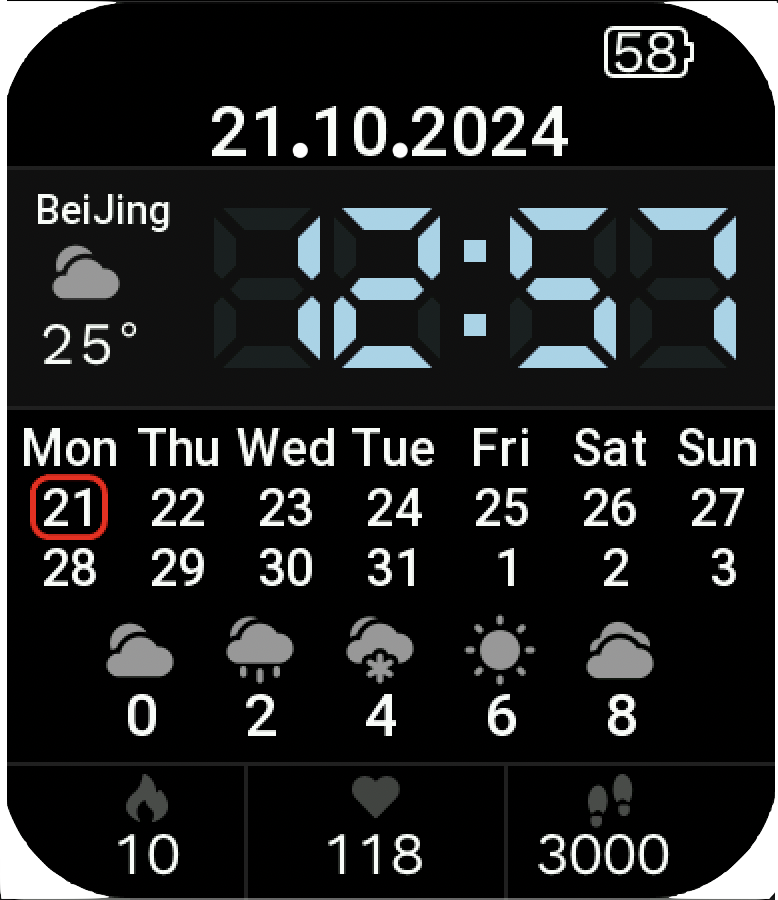
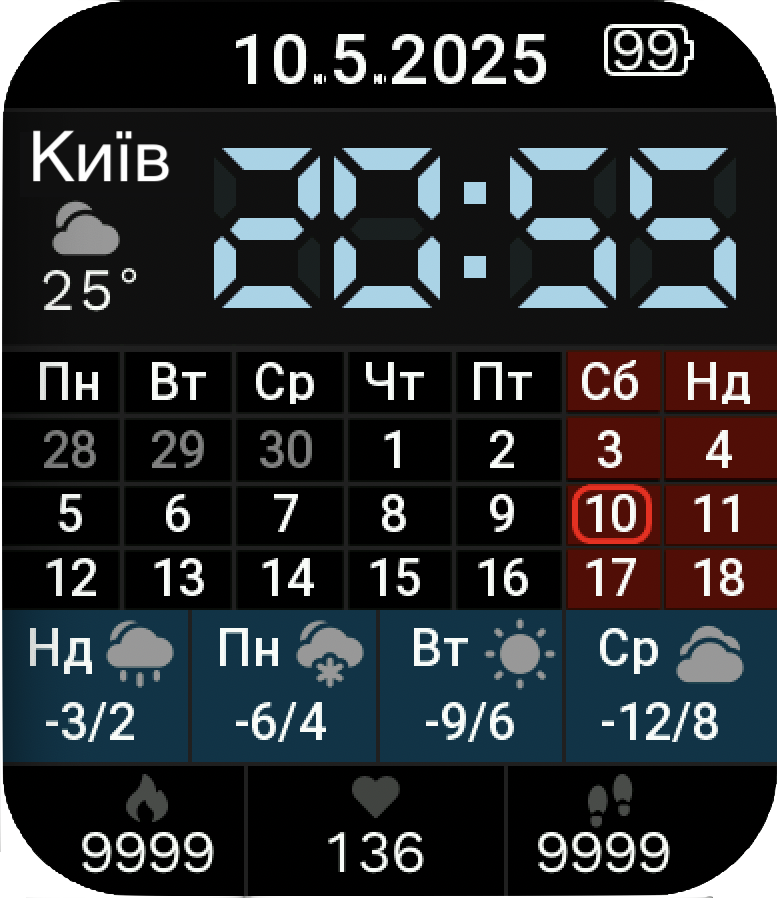
better styles & positioning

diff --git a/watchface/calendar.js b/watchface/calendar.js
@@ -1,6 +1,7 @@
 import {getLangTable} from "./i18n";
 
 const colorWhite = 0xffffff;
+const colorGray = 0x808080;
 const weekDays = getLangTable().weekNamesConfig
 
 let calendarWidget = []
@@ -32,9 +33,6 @@ export function CalendarWidget() {
     // calendar week names
     let shift = 10;
     weekDays.forEach((day, index) => {
-        // if (index === 5 || index === 6) {
-        //     weekColor = colorRed
-        // }
         hmUI.createWidget(hmUI.widget.TEXT, {
             x: shift,
             y: 178,
@@ -62,41 +60,35 @@ export function CalendarWidget() {
         align_h: hmUI.align.CENTER_H,
         align_v: hmUI.align.CENTER_V,
         text_style: hmUI.text_style.NONE,
-        text: currentDay + "." + currentMonth + "." + currentYear
+        text: currentDay + "." + String(currentMonth).padStart(2, '0') + "." + currentYear
     }));
 
-    let dates = getNextTwoWeeksDates(currentDay, currentMonth, currentYear)
+    let dates = getNextThreeWeeksDates(currentDay, currentMonth, currentYear)
     let shiftX = 10; // Initialize the shift for x position
     let shiftY = 180; // Initialize y position
-    let weekColor = colorWhite
-    dates.forEach((day, index) => {
+    dates.forEach((dayProp, index) => {
         if (index % 7 === 0) {
             shiftY += 32; // Move down by 30 pixels for every 7th item
             shiftX = 10;
         }
 
-        // if (index % 7 === 5 || index % 7 === 6) { // 5 is Saturday, 6 is Sunday
-        //     weekColor = colorRed
-        // } else {
-        //     weekColor = colorWhite
-        // }
         calendarWidget.push(hmUI.createWidget(hmUI.widget.TEXT, {
             x: shiftX, // Current x position
             y: shiftY, // Current y position
             w: 50, // Width of the text widget
             h: 25, // Height of the text widget
-            color: weekColor, // Text color
+            color: dayProp.color, // Text color
             text_size: 25, // Size of the text
             align_h: hmUI.align.CENTER_H, // Horizontal alignment
             align_v: hmUI.align.CENTER_V, // Vertical alignment
             text_style: hmUI.text_style.NONE, // Text style
-            text: String(day).padStart(2, ' ') // Display the current timeToDisplay value
+            text: String(dayProp.day).padStart(2, '') // Display the current timeToDisplay value
         }));
 
-        if (day === currentDay) {
+        if (dayProp.day === currentDay) {
             calendarWidget.push(hmUI.createWidget(hmUI.widget.STROKE_RECT, {
-                x: shiftX + 5,
-                y: shiftY - 2,
+                x: shiftX + 6,
+                y: shiftY - 1,
                 w: 40,
                 h: 30,
                 radius: 10,
@@ -108,29 +100,28 @@ export function CalendarWidget() {
     })
 }
 
-// Function to get the next 14 dates starting from the current date
-function getNextTwoWeeksDates(currentDay, currentMonth, currentYear) {
+function getNextThreeWeeksDates(currentDay, currentMonth, currentYear) {
     const dates = [];
-
-    // Create a date object for the current date
     const currentDate = new Date(currentYear, currentMonth - 1, currentDay);
 
-    // Calculate the day of the week (0 for Sunday, 1 for Monday, ..., 6 for Saturday)
-    const dayOfWeek = currentDate.getDay();
+    const currentRealMonth = currentDate.getMonth(); // Store real current month (0-indexed)
 
-    // Calculate how many days to subtract to get to the most recent Monday
+    const dayOfWeek = currentDate.getDay();
     const mondayOffset = (dayOfWeek === 0 ? -6 : 1) - dayOfWeek;
 
-    // Set the date to the most recent Monday
-    currentDate.setDate(currentDate.getDate() + mondayOffset);
+    currentDate.setDate(currentDate.getDate() + mondayOffset - 7);
 
-    // Loop to get the next 14 days starting from the most recent Monday
     for (let i = 0; i < 21; i++) {
-        // Push the actual date (day of the month) into the array
-        dates.push(currentDate.getDate()); // Push just the day of the month
+        const dateMonth = currentDate.getMonth(); // month of this specific date
+        const dayColor = dateMonth !== currentRealMonth ? colorGray : colorWhite;
 
-        // Move to the next day
+        dates.push({
+            day: currentDate.getDate(),
+            color: dayColor
+        });
+
         currentDate.setDate(currentDate.getDate() + 1);
     }
-    return dates; // Return the array of days of the month
+
+    return dates;
 }
